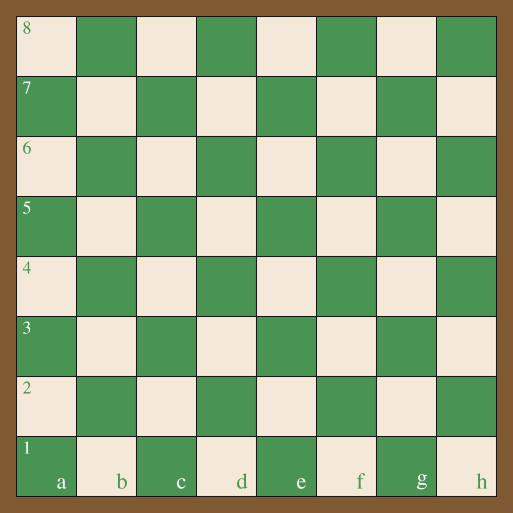
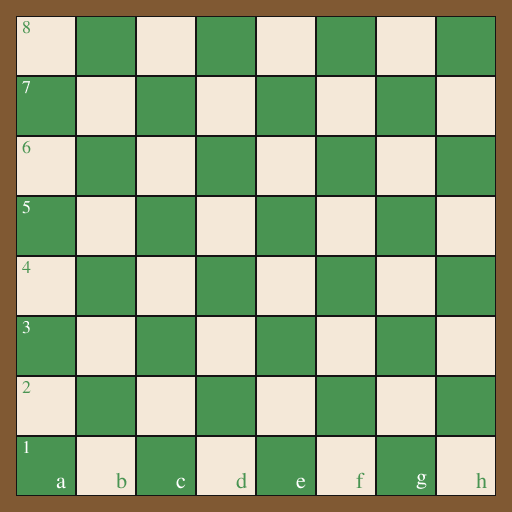
Adicionando o movimento da torre
Também foi adicionado a função de verificação de movimento nas classes de cada peça e um tabuleiro com o tamanho de pixels correto

diff --git a/public/classes/tiposPecas/Torre.js b/public/classes/tiposPecas/Torre.js
@@ -2,4 +2,17 @@ class Torre extends Peca {
     constructor(config) {
         super(config);
     }
+
+
+    canBeMoved(futureGridX, futureGridY) {
+        if ((this.gridX == futureGridX && this.gridY != futureGridY) || (this.gridX != futureGridX && this.gridY == futureGridY)) {
+            console.log(this.gridX, this.gridY, futureGridX, futureGridY);
+            return true;
+        } else {
+            console.log(this.gridX, this.gridY, futureGridX, futureGridY);
+            console.log("nao");
+            return false;
+        }
+    }
+
 }

diff --git a/public/classes/Tiles.js b/public/classes/Tiles.js
@@ -59,7 +59,7 @@ class Tiles {
                 this.selectedPeca = clickedPeca;
                 console.log("selecao trocada para peça amiga");
             // Se clicar em tile vazio (movimento)
-            } else if (!clickedPeca) {
+            } else if (!clickedPeca && this.selectedPeca.canBeMoved(tileX, tileY)) {
                 console.log("movendo a peça para um local vazio");
                 this.selectedPeca.moveTo(tileX, tileY);
                 this.selectedPeca = null;

diff --git a/public/style.css b/public/style.css
@@ -49,9 +49,10 @@ body {
 }
 
 .game-container canvas {
-    width: 100%;
-    height: 100%;
+    width: 512px;
+    height: 512px;
     image-rendering: pixelated;
+    image-rendering:crisp-edges;
 }
 
 .pecas-capturadas {

diff --git a/public/classes/tiposPecas/Cavalo.js b/public/classes/tiposPecas/Cavalo.js
@@ -2,4 +2,9 @@ class Cavalo extends Peca {
     constructor(config) {
         super(config);
     }
+
+    canBeMoved(futureGridX, futureGridY) {
+        return true;
+    }
+
 }

diff --git a/public/classes/tiposPecas/Rainha.js b/public/classes/tiposPecas/Rainha.js
@@ -2,4 +2,9 @@ class Rainha extends Peca {
     constructor(config) {
         super(config);
     }
+
+    canBeMoved(futureGridX, futureGridY) {
+        return true;
+    }
+
 }

diff --git a/public/classes/tiposPecas/Bispo.js b/public/classes/tiposPecas/Bispo.js
@@ -2,4 +2,9 @@ class Bispo extends Peca {
     constructor(config) {
         super(config);
     }
+
+    canBeMoved(futureGridX, futureGridY) {
+        return true;
+    }
+
 }

diff --git a/public/classes/tiposPecas/Peao.js b/public/classes/tiposPecas/Peao.js
@@ -2,4 +2,9 @@ class Peao extends Peca {
     constructor(config) {
         super(config);
     }
+
+    canBeMoved(futureGridX, futureGridY) {
+        return true;
+    }
+
 }

diff --git a/public/classes/tiposPecas/Rei.js b/public/classes/tiposPecas/Rei.js
@@ -2,4 +2,9 @@ class Rei extends Peca {
     constructor(config) {
         super(config);
     }
+
+    canBeMoved(futureGridX, futureGridY) {
+        return true;
+    }
+
 }
